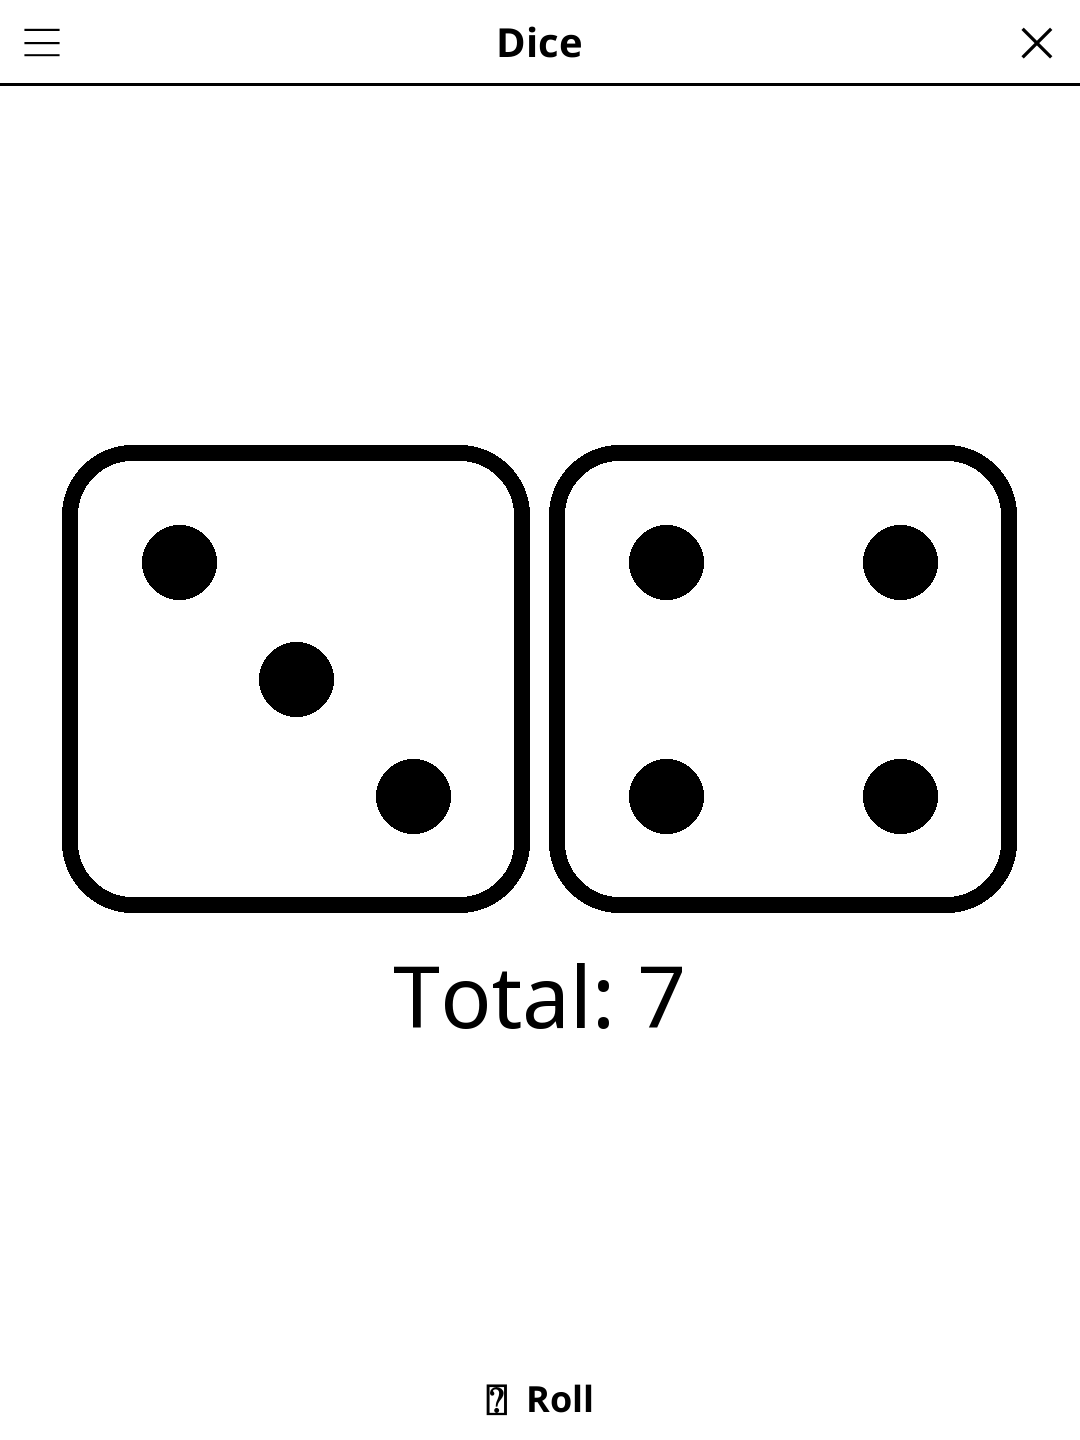
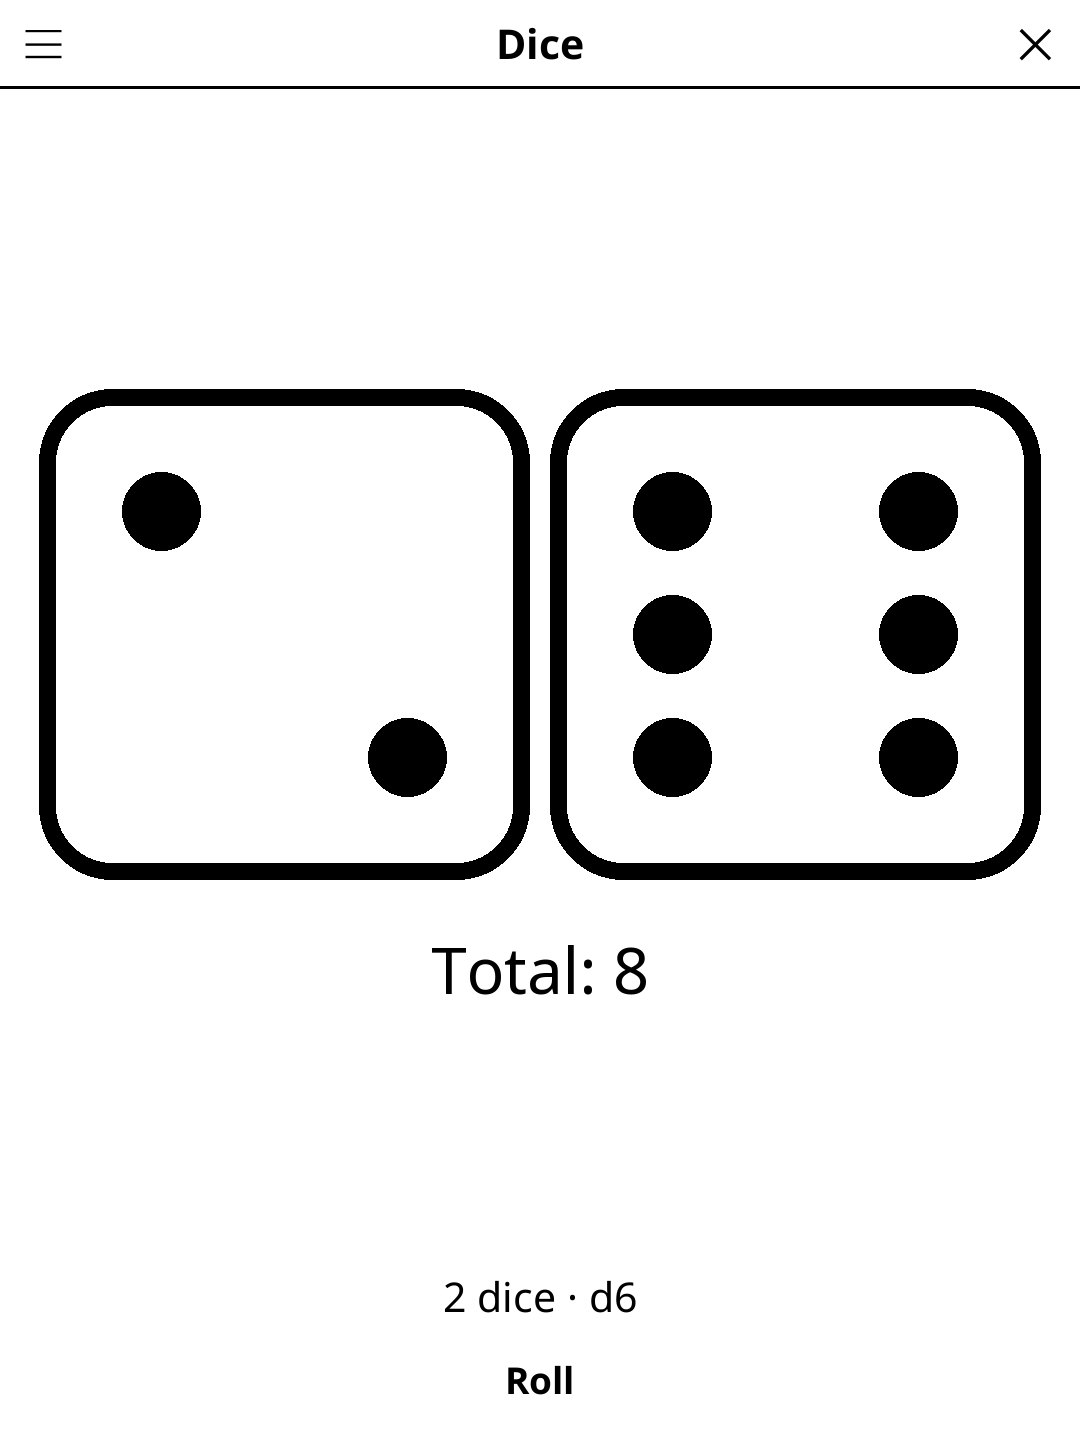
release: 1.1.0 -- redesigned screen, harmonised menu, New game at round end
Screen redesign (full-width action bar, unified pad, status line, larger
board), harmonised title-bar menu, and a "New game" button once the round
is over. See CHANGELOG.md.

diff --git a/CHANGELOG.md b/CHANGELOG.md
@@ -6,6 +6,21 @@ Reconstructed from this repository's git history: each release lists the
 feature and fix commits it carried. Version bumps, screenshot additions
 and CI syncs are left out.
 
+## [1.1.0] - 2026-10-30
+
+### Changed
+- Redesigned play screen: the dice fill the room left by the status and a
+  full-width Roll bar, and landscape puts the controls beside the dice.
+- Title-bar menu entries show the current values, "Faces: d6" and "Dice: 2",
+  instead of "Number of faces…" / "Number of dice…".
+- The status line reads "2 dice · d6".
+
+### Fixed
+- The Roll button started with a 🎲 emoji the UI fonts have no glyph for, so it
+  showed as a box.
+- The rolled numbers and the total were scaled by DPI twice and could overflow
+  the die on high-DPI screens; they are now fitted and centred.
+
 ## [1.0.13] - 2026-10-07
 
 ### Fixed

diff --git a/README.md b/README.md
@@ -25,9 +25,9 @@ Your last roll and settings are remembered between sessions.
 
 | Action | Effect |
 |--------|--------|
-| **🎲 Roll** | Roll all dice again |
-| **☰ menu → Number of faces…** | Choose faces (presets or custom) |
-| **☰ menu → Number of dice…** | Choose how many dice to roll (1–12) |
+| **Roll** | Roll all dice again |
+| **☰ menu → Faces: d6** | Choose faces (presets or custom) |
+| **☰ menu → Dice: 2** | Choose how many dice to roll (1–12) |
 | **☰ menu → Rules** | Show a quick reminder |
 | **✕** | Close |
 
